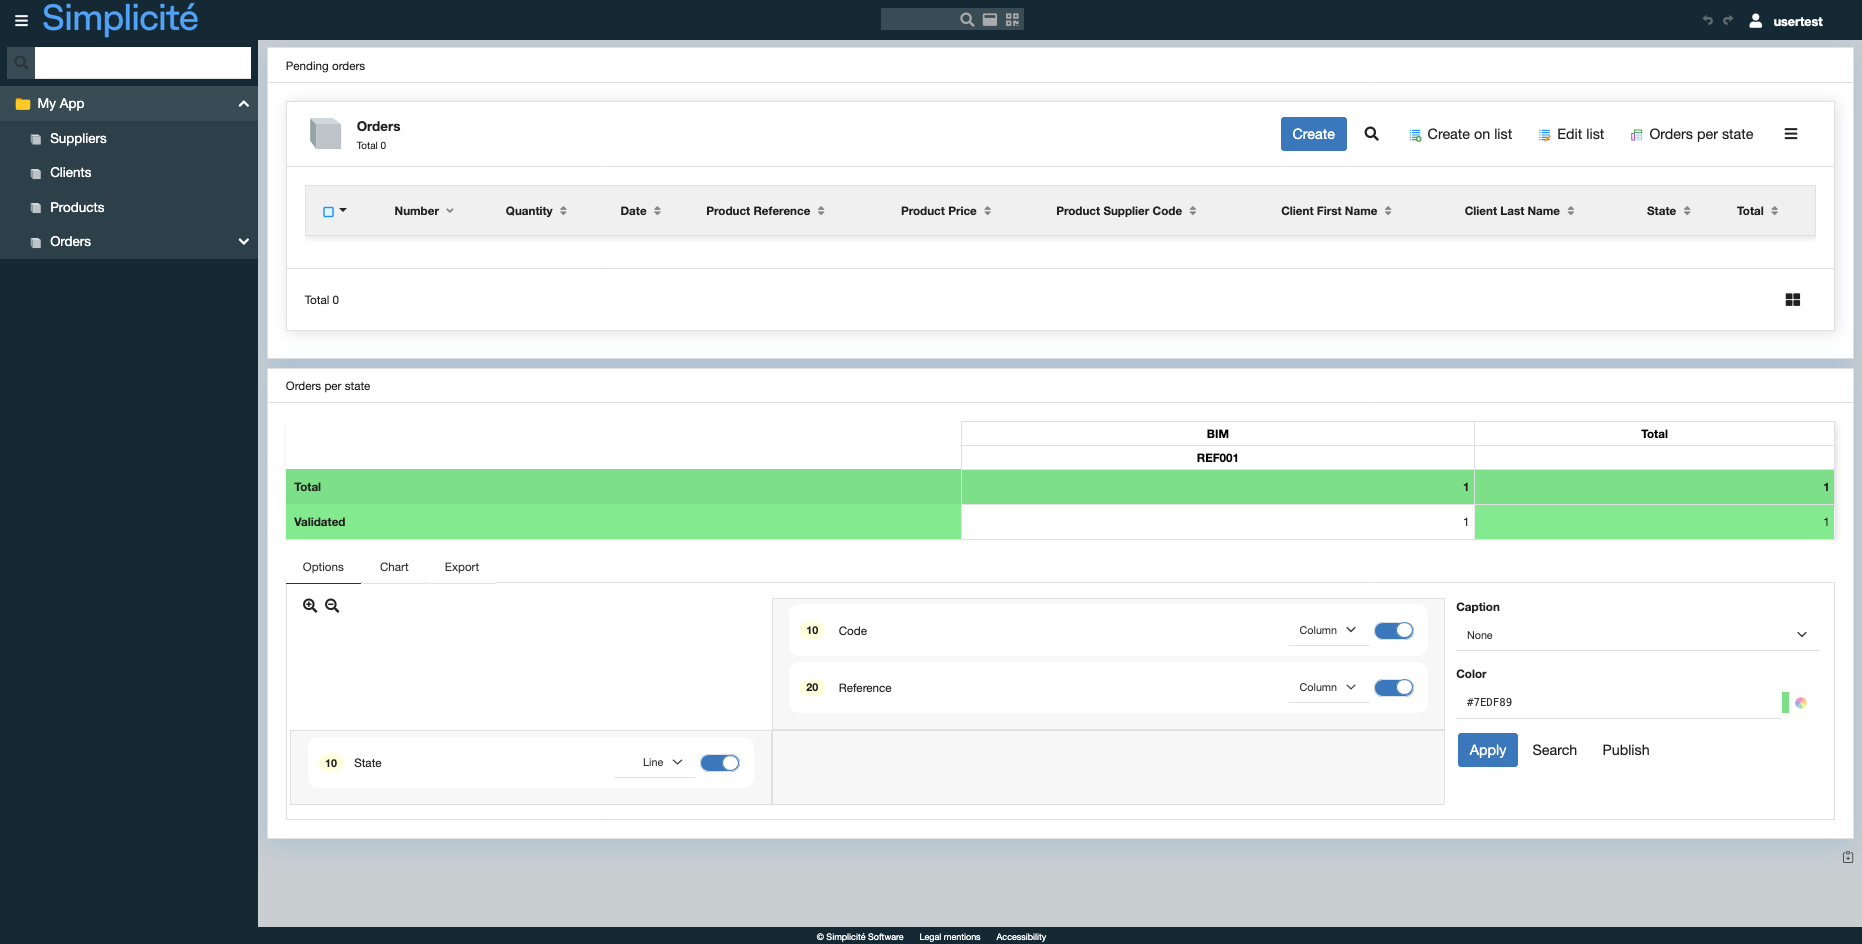
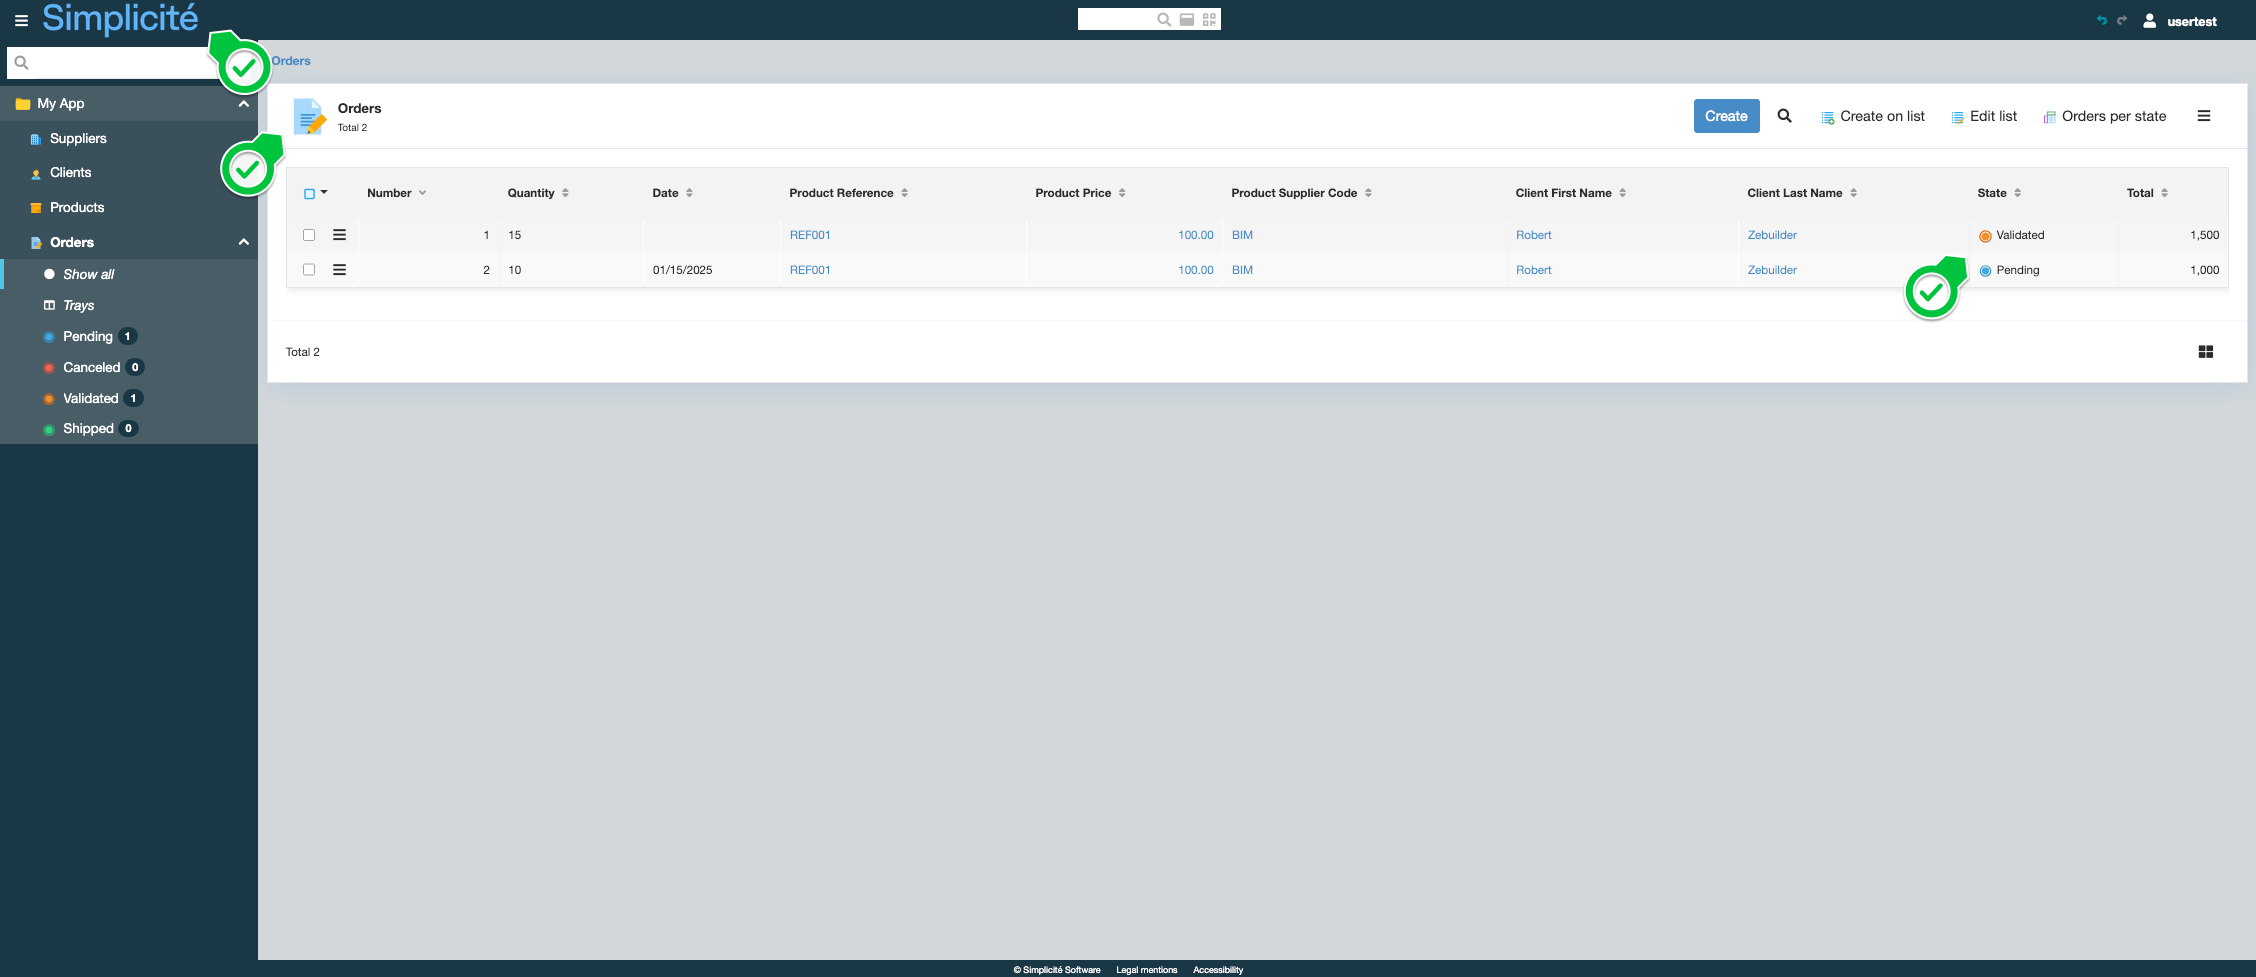
expanding / styles

diff --git a/content/CTG_30_tutorial/CTG_20_expanding/LSN_09_styles/styles_ENU.md b/content/CTG_30_tutorial/CTG_20_expanding/LSN_09_styles/styles_ENU.md
@@ -60,7 +60,6 @@ To create a Theme and add it to the App, follow the steps below :
   Header logo
 </a>  
     <img src="theme-form.png" alt="theme-form" width="50%"/>
-
 3. Click **Save**  
 4. In the **User interface > Views > Home page** menu, open **TrainingScope**
 5. In the **Home page** tab, click on the *magnifying glass* button next to the **Theme name** field  
@@ -69,9 +68,56 @@ To create a Theme and add it to the App, follow the steps below :
     <img src="theme-pick.png" alt="theme-pick" width="50%"/>
 7. Click **Save**
 
-## Adding icons to Business objects
+## Adding icons to the Supplier, Product, Client and Order
+
+To add an icon to a Supplier Business object, follow the steps below :
+
+1. In the **Buiness objects > Business objects** menu, open **TrnSupplier**
+2. Click the *magnifying glass* on the **Icon code** field to select an icon  
+    <img src="icon-pick.png" alt="icon-pick" width="50%"/>
+3. Click **Save**
+
+Repeat these steps for the TrnProduct, TrnClient and TrnOrder objects.
 
 ## Styling the Order's state field
+
+To add colours and icons to the Order's state field, follow the steps below :
+
+1. Open the **trnOrdState** field :
+    - Via the list of Orders, click on the **State** label  
+    <img src="open-field.png" alt="open-field" width="50%"/>
+    - Via the **Business objects > Fields** menu  
+    <img src="open-field-alt.png" alt="open-field-alt" width="50%"/>
+2. Click on the *arrow* next to the **List of values** field, to open the **TRN_ORD_STATE** List of values   
+    <img src="open-lov.png" alt="open-lov" width="50%"/>
+3. In the **List code** list linked to the List of values, open the first (Pending) List code  
+    <img src="open-code.png" alt="open-code" width="50%"/>
+4. Fill in the List code information like so :
+    - Background color : **#6fa8dc**
+    - Icon : **icon/color/btn_blue**
+    - Text color : **#ffffff**
+    - Display on list : **Icon | Label**  
+    <img src="code-values.png" alt="code-values" width="50%"/>
+5. Click **Save & Close**
+
+Repeat these step 3 -> 5 for :
+- Canceled : 
+    - Background color : **#e06666**
+    - Icon : **icon/color/btn_red**
+    - Text color : **#ffffff**
+    - Display on list : **Icon | Label**  
+- Validated 
+    - Background color : **#f6b26b**
+    - Icon : **icon/color/btn_orange**
+    - Text color : **#ffffff**
+    - Display on list : **Icon | Label**    
+- Validated 
+    - Background color : **#93c47d**
+    - Icon : **icon/color/btn_green**
+    - Text color : **#ffffff**
+    - Display on list : **Icon | Label**    
+
+<img src="lov.png" alt="lov" width="50%"/>
 
 ## Test the Theme with the usertest User
 
@@ -80,5 +126,9 @@ To create a Theme and add it to the App, follow the steps below :
 
 <div class="success">
     <p>The new Theme and header logo are applied to the App</p>
+    <p>The objects have icons</p>
+    <p>The Order's state field have icons</p>
     <img src="success.png" alt="logon" width="50%"/>
+    <p>The Order's state transition actions have colours</p>
+    <img src="order-colours.png" alt="logon" width="50%"/>
 </div>
